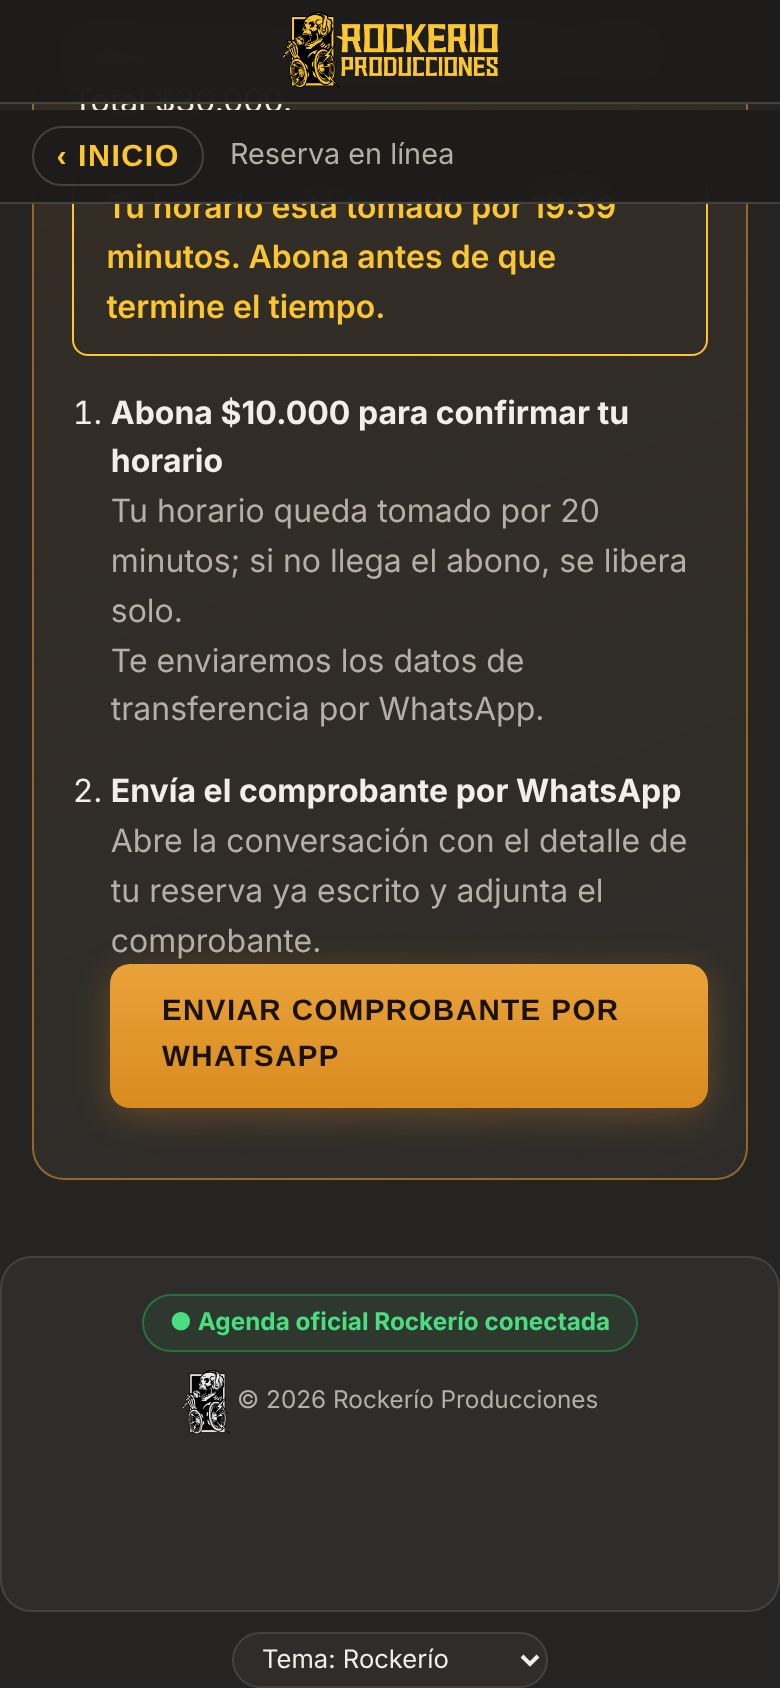
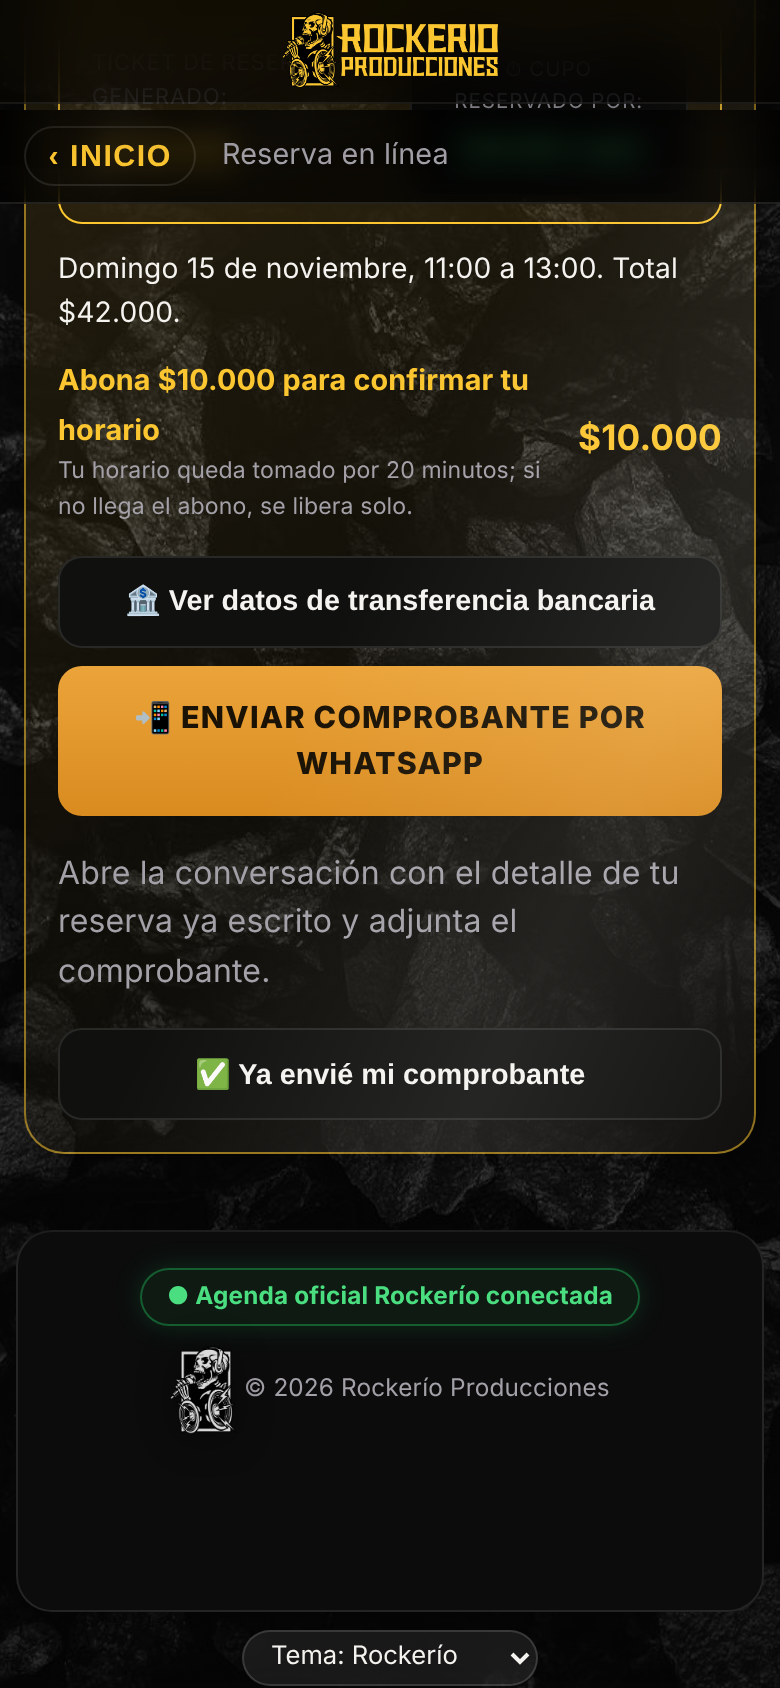
Fondo de piedra oscura en todo el sitio y holograma por sección
Claude-Session: https://claude.ai/code/session_01XCoHY3KD5S9ag2ugMqjwE4

diff --git a/index.html b/index.html
@@ -17,15 +17,15 @@
 <link rel="icon" href="assets/favicon.png">
 <link rel="preconnect" href="https://fonts.googleapis.com">
 <link href="https://fonts.googleapis.com/css2?family=Oswald:wght@500;700&family=Inter:wght@400;600&display=swap" rel="stylesheet">
-<link rel="stylesheet" href="css/styles.css?v=202611140535">
-<link rel="stylesheet" href="css/temas.css?v=202611140535">
-<link rel="stylesheet" href="css/movil.css?v=202611140535">
-<link rel="stylesheet" href="css/clasico.css?v=202611140535">
-<link rel="stylesheet" href="css/pulido.css?v=202611140535">
-<link rel="stylesheet" href="css/produccion.css?v=202611140535">
-<link rel="stylesheet" href="css/legible.css?v=202611140535">
+<link rel="stylesheet" href="css/styles.css?v=202611140559">
+<link rel="stylesheet" href="css/temas.css?v=202611140559">
+<link rel="stylesheet" href="css/movil.css?v=202611140559">
+<link rel="stylesheet" href="css/clasico.css?v=202611140559">
+<link rel="stylesheet" href="css/pulido.css?v=202611140559">
+<link rel="stylesheet" href="css/produccion.css?v=202611140559">
+<link rel="stylesheet" href="css/legible.css?v=202611140559">
 <script>(function(){try{var q=/[?&]rediseno=(\d)/.exec(location.search);if(q)localStorage.setItem('rk-rd',q[1]);if(localStorage.getItem('rk-rd')!=='0'){document.documentElement.classList.add('rd');['css/rediseno.css','https://fonts.googleapis.com/css2?family=Space+Grotesk:wght@500;700&display=swap'].forEach(function(h){var l=document.createElement('link');l.rel='stylesheet';l.href=h;document.head.appendChild(l)})}}catch(e){}})()</script>
-<script src="js/tema.js?v=202611140535"></script><script src="js/teclado.js?v=202611140535" defer></script>
+<script src="js/tema.js?v=202611140559"></script><script src="js/teclado.js?v=202611140559" defer></script>
 <link rel="stylesheet" href="https://fonts.googleapis.com/css2?family=Playfair+Display:wght@600;800&family=Nunito:wght@400;700&family=Space+Mono:wght@400;700&family=Archivo+Black&family=Bebas+Neue&family=Big+Shoulders+Display:wght@800;900&family=Poppins:wght@400;600&display=swap"></head>
 <body>
 <div id="aviso" class="aviso" hidden></div>
@@ -356,14 +356,14 @@
 
 <footer><p class="pie-chips"><span class="chip-ok">● Agenda oficial Rockerío conectada</span></p><img src="assets/marcas/calavera.png" alt="ROCKERÍO Producciones"> <span id="pie"></span></footer>
 
-<script src="js/config.js?v=202611140535"></script>
-<script src="js/reglas.js?v=202611140535"></script>
-<script src="js/app.js?v=202611140535"></script>
-<script src="js/planes.js?v=202611140535"></script>
-<script src="js/mezclador.js?v=202611140535"></script>
-<script src="js/contenido.js?v=202611140535"></script>
-<script src="js/pasos.js?v=202611140535"></script>
-<script src="js/vistas.js?v=202611140535"></script>
+<script src="js/config.js?v=202611140559"></script>
+<script src="js/reglas.js?v=202611140559"></script>
+<script src="js/app.js?v=202611140559"></script>
+<script src="js/planes.js?v=202611140559"></script>
+<script src="js/mezclador.js?v=202611140559"></script>
+<script src="js/contenido.js?v=202611140559"></script>
+<script src="js/pasos.js?v=202611140559"></script>
+<script src="js/vistas.js?v=202611140559"></script>
 <script>(function(){var h=document.querySelector(".hero-marca");if(!h||matchMedia("(prefers-reduced-motion:reduce)").matches)return;addEventListener("scroll",function(){h.style.setProperty("--par",Math.min(scrollY*.12,60)+"px")},{passive:true})})();</script>
 </body>
 </html>

diff --git a/css/legible.css b/css/legible.css
@@ -61,3 +61,25 @@ body.con-vistas[data-vista]:not([data-vista="inicio"]) .menu .tarjeta::before{wi
 #proaudix .pa-hero:hover::after,#proaudix .pa-bloque:hover::after{animation:rk-brillo 1.1s ease}
 }}
 #proaudix .pa-logo{max-width:100%;box-sizing:border-box}#proaudix .pa-logo img{max-width:100%;height:auto}
+
+/* ===== Fondo de piedra oscura en todo el sitio (capa fija: también funciona en iPhone) ===== */
+html body::before,html.rd body::before{content:"";position:fixed;inset:0;z-index:-1;pointer-events:none;background:linear-gradient(rgba(0,0,0,.42),rgba(0,0,0,.68)),url(../assets/marca/textura-fondo.jpg) center/cover no-repeat!important}
+
+/* ===== Holograma en todas las secciones: tinte de color por sección + destello al pasar/tocar ===== */
+:root{--hl:252,198,49}
+#produccion,#nosotros,#ficha,#galeria,#cotizar{--hl:239,68,68}
+#ficha{--hl:252,198,49}
+#planes{--hl:99,102,241}
+#vivo{--hl:6,182,212}
+#proaudix{--hl:239,68,68}
+#reservar,#reglamento,#tienda,#bandas,#opiniones,#contacto{--hl:252,198,49}
+.sec :is(.caja,.honor-card,.mic-it,.fo-it,.ex-card,.prod-bloque,.reg-lista,.tu-reserva,.plan-cond){position:relative;overflow:hidden;border-color:rgba(var(--hl),.55)!important;background:linear-gradient(150deg,rgba(var(--hl),.13),rgba(var(--hl),.04) 60%,rgba(14,13,12,.95))!important}
+.sec :is(.caja,.honor-card,.mic-it,.fo-it,.ex-card,.prod-bloque,.reg-lista,.tu-reserva,.plan-cond)::after{content:"";position:absolute;inset:0;background:linear-gradient(115deg,transparent 35%,rgba(255,255,255,.09) 50%,transparent 65%);background-size:250% 100%;background-position:-150% 0;border-radius:inherit;pointer-events:none}
+.sec :is(.caja,.honor-card,.mic-it,.fo-it,.ex-card,.prod-bloque,.reg-lista,.tu-reserva,.plan-cond):is(:hover,:active)::after{animation:rk-brillo 1.1s ease}
+.menu .tarjeta{position:relative;overflow:hidden}
+.menu .tarjeta::after{content:"";position:absolute;inset:0;background:linear-gradient(115deg,transparent 35%,rgba(255,255,255,.12) 50%,transparent 65%);background-size:250% 100%;background-position:-150% 0;border-radius:inherit;pointer-events:none}
+.menu .tarjeta:is(:hover,:active)::after{animation:rk-brillo 1.1s ease}
+.gal-fig{position:relative;overflow:hidden}
+.gal-fig::after{content:"";position:absolute;inset:0;background:linear-gradient(115deg,transparent 35%,rgba(255,255,255,.14) 50%,transparent 65%);background-size:250% 100%;background-position:-150% 0;border-radius:inherit;pointer-events:none}
+.gal-fig:is(:hover,:active)::after{animation:rk-brillo 1.1s ease}
+@media(prefers-reduced-motion:reduce){.sec :is(.caja,.honor-card,.mic-it,.fo-it,.ex-card,.prod-bloque,.reg-lista,.tu-reserva,.plan-cond):hover::after,.menu .tarjeta:hover::after,.gal-fig:hover::after{animation:none}}
